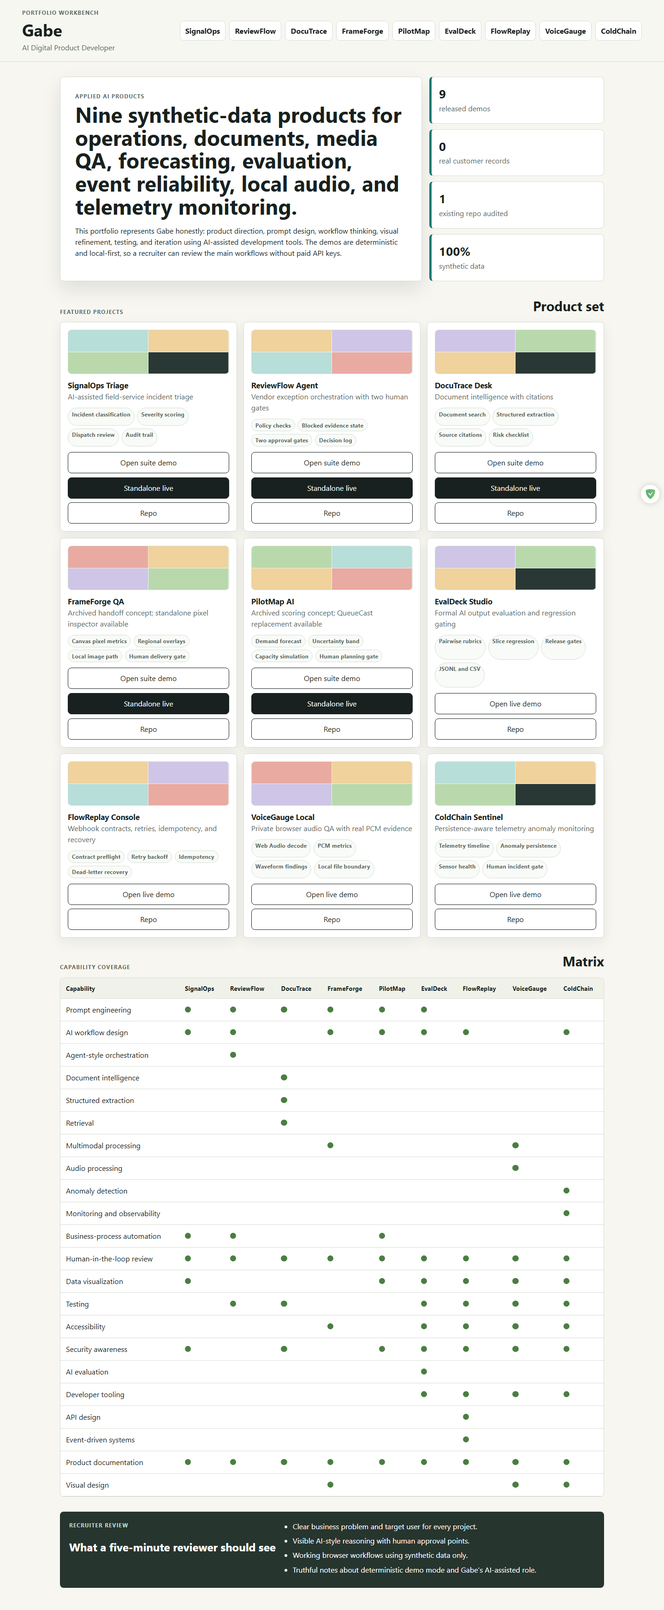
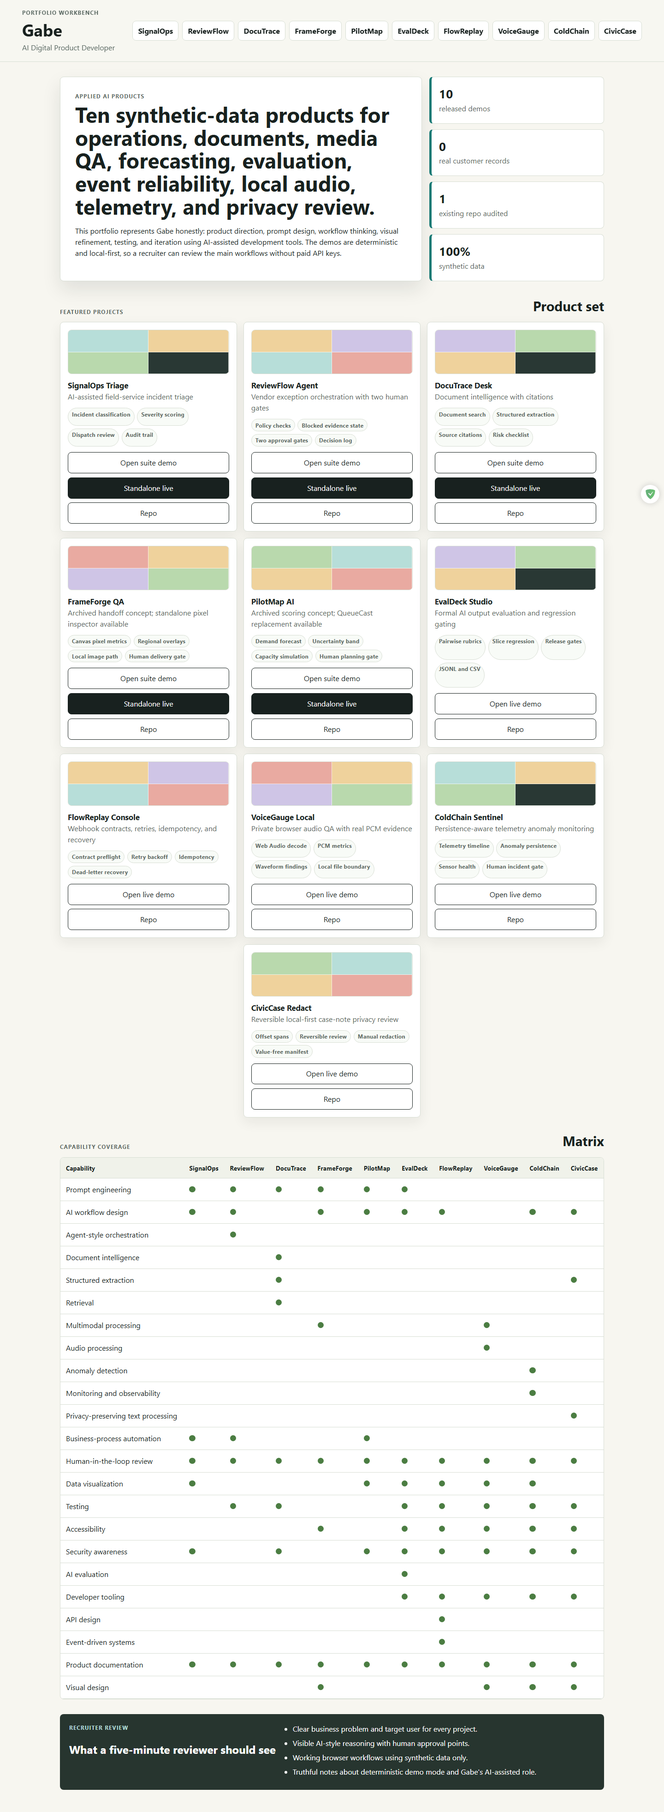
feat: complete ten-product portfolio

diff --git a/index.html b/index.html
@@ -4,7 +4,7 @@
   <meta charset="utf-8">
   <meta name="viewport" content="width=device-width, initial-scale=1">
   <title>Gabe - AI Digital Product Developer</title>
-  <meta name="description" content="Nine truthful AI-assisted digital product demos spanning operations, documents, media, forecasting, evaluation, event reliability, audio QA, and telemetry monitoring.">
+  <meta name="description" content="Ten truthful AI-assisted digital product demos spanning operations, documents, media, forecasting, evaluation, event reliability, audio, telemetry, and privacy review.">
   <link rel="stylesheet" href="assets/styles.css">
 </head>
 <body data-page="portfolio">
@@ -25,6 +25,7 @@
       <a href="https://jubjub-cpu.github.io/flowreplay-console/">FlowReplay</a>
       <a href="https://jubjub-cpu.github.io/voicegauge-local/">VoiceGauge</a>
       <a href="https://jubjub-cpu.github.io/coldchain-sentinel/">ColdChain</a>
+      <a href="https://jubjub-cpu.github.io/civiccase-redact/">CivicCase</a>
     </nav>
   </header>
 
@@ -32,14 +33,14 @@
     <section class="intro-grid" aria-labelledby="portfolio-title">
       <div class="intro-copy">
         <p class="eyebrow">Applied AI products</p>
-        <h2 id="portfolio-title">Nine synthetic-data products for operations, documents, media QA, forecasting, evaluation, event reliability, local audio, and telemetry monitoring.</h2>
+        <h2 id="portfolio-title">Ten synthetic-data products for operations, documents, media QA, forecasting, evaluation, event reliability, local audio, telemetry, and privacy review.</h2>
         <p>
           This portfolio represents Gabe honestly: product direction, prompt design, workflow thinking, visual refinement, testing, and iteration using AI-assisted development tools.
           The demos are deterministic and local-first, so a recruiter can review the main workflows without paid API keys.
         </p>
       </div>
       <div class="audit-strip" aria-label="Portfolio audit summary">
-        <div><strong>9</strong><span>released demos</span></div>
+        <div><strong>10</strong><span>released demos</span></div>
         <div><strong>0</strong><span>real customer records</span></div>
         <div><strong>1</strong><span>existing repo audited</span></div>
         <div><strong>100%</strong><span>synthetic data</span></div>

diff --git a/assets/portfolio.js b/assets/portfolio.js
@@ -12,6 +12,7 @@
     "Audio processing",
     "Anomaly detection",
     "Monitoring and observability",
+    "Privacy-preserving text processing",
     "Business-process automation",
     "Human-in-the-loop review",
     "Data visualization",
@@ -170,6 +171,22 @@
       oversight: "No shipment is disposed automatically; a human operator must provide written evidence before acknowledgement or escalation.",
       features: ["Telemetry timeline", "Anomaly persistence", "Sensor health", "Human incident gate"],
       capabilities: ["AI workflow design", "Anomaly detection", "Monitoring and observability", "Human-in-the-loop review", "Data visualization", "Testing", "Accessibility", "Security awareness", "Developer tooling", "Product documentation", "Visual design"]
+    },
+    civiccase: {
+      name: "CivicCase Redact",
+      shortName: "CivicCase",
+      subtitle: "Reversible local-first case-note privacy review",
+      path: "https://jubjub-cpu.github.io/civiccase-redact/",
+      pathLabel: "Open live demo",
+      standaloneRepo: "https://github.com/jubjub-cpu/civiccase-redact",
+      standaloneRelease: "https://github.com/jubjub-cpu/civiccase-redact/releases/tag/v1.0.0",
+      accent: "green",
+      problem: "Case-note reviewers need to find direct identifiers, resolve false positives, add missed sensitive spans, and prove human review before a protected copy is released.",
+      user: "Public-service operations teams, privacy reviewers, records teams, and trust-focused product teams",
+      ai: "Maps seven identifier categories to exact offsets, expands repeated-name context, exposes confidence and provenance, and creates a value-free release manifest.",
+      oversight: "Every suggested span must be marked redact or keep, and a written human release decision is required before export.",
+      features: ["Offset spans", "Reversible review", "Manual redaction", "Value-free manifest"],
+      capabilities: ["AI workflow design", "Structured extraction", "Privacy-preserving text processing", "Human-in-the-loop review", "Testing", "Accessibility", "Security awareness", "Developer tooling", "Product documentation", "Visual design"]
     }
   };
 

diff --git a/assets/styles.css b/assets/styles.css
@@ -223,6 +223,10 @@ textarea {
   gap: 0.85rem;
 }
 
+.project-card:last-child:nth-child(3n + 1) {
+  grid-column: 2;
+}
+
 .project-card,
 .workflow-card,
 .doc-card,
@@ -568,6 +572,10 @@ th {
 @media (max-width: 1040px) {
   .project-grid {
     grid-template-columns: repeat(2, minmax(220px, 1fr));
+  }
+
+  .project-card:last-child:nth-child(3n + 1) {
+    grid-column: auto;
   }
 
   .product-layout,

diff --git a/README.md b/README.md
@@ -1,6 +1,6 @@
 # Gabe - AI Digital Product Developer Portfolio
 
-This portfolio features nine complete, local-first AI digital products that show practical workflow design, prompt-shaped reasoning, formal evaluation, event reliability, real browser media processing, telemetry monitoring, human review, synthetic data, and recruiter-friendly product documentation.
+This portfolio features ten complete, local-first AI digital products: five matured foundation products and five distinct Phase Two releases. Together they show workflow design, prompt-shaped reasoning, formal evaluation, event reliability, real browser media processing, telemetry monitoring, privacy-preserving text processing, human review, synthetic data, and recruiter-friendly product documentation.
 
 ## Overview
 
@@ -21,6 +21,7 @@ The portfolio does not claim traditional software engineering employment, produc
 | FlowReplay Console | Integration teams need to distinguish contract drift, transient failures, duplicates, and dead-letter recovery before replaying webhooks. | Versioned contracts, response classification, retry backoff, failure injection, idempotent no-ops, reasoned replay approval, JSON evidence. | [Standalone](https://jubjub-cpu.github.io/flowreplay-console/) |
 | VoiceGauge Local | Audio teams need a private first pass for clipping, level, silence, and background signal. | Real Web Audio decoding, six PCM metrics, timed Canvas findings, baseline comparison, local upload, threshold policy, human handoff gate. | [Standalone](https://jubjub-cpu.github.io/voicegauge-local/) |
 | ColdChain Sentinel | Cold-chain operators need to distinguish persistent excursions from noisy spikes and unhealthy sensor evidence. | Multivariate telemetry, persistence, clear hysteresis, spike suppression, sensor-gap detection, policy tuning, and a human incident gate. | [Standalone](https://jubjub-cpu.github.io/coldchain-sentinel/) |
+| CivicCase Redact | Case-note reviewers need reversible direct-identifier review before protected text is released. | Seven identifier types, exact offsets, repeated-name context, reversible decisions, manual redaction, value-free manifest, and a human release gate. | [Standalone](https://jubjub-cpu.github.io/civiccase-redact/) |
 
 ## Business Problem
 
@@ -28,7 +29,7 @@ Many businesses are interested in AI but struggle to translate messy workflows i
 
 ## Target Users
 
-The products are designed for operations coordinators, field-service teams, small business owners, administrative teams, analysts, creators, and hiring managers reviewing practical AI product potential.
+The products are designed for operations coordinators, AI quality teams, integration developers, document reviewers, workforce planners, creators, media producers, logistics teams, privacy reviewers, and hiring managers reviewing practical AI product potential.
 
 ## Product Approach
 
@@ -36,7 +37,7 @@ Each demo uses deterministic browser logic to simulate AI-style workflow support
 
 ## Main Features
 
-- Nine released product demos with synthetic data.
+- Ten released product demos with synthetic data.
 - Central portfolio page with project cards and capability matrix.
 - Human-in-the-loop review points in every product.
 - Recruiter-facing documentation, roadmap, scorecard, state tracking, blocker tracking, and case studies.
@@ -93,6 +94,10 @@ Current screenshots captured from the implemented local app:
 
 ![Standalone ColdChain mobile](docs/screenshots/coldchain-standalone-mobile.png)
 
+![Standalone CivicCase desktop](docs/screenshots/civiccase-standalone-desktop.png)
+
+![Standalone CivicCase mobile](docs/screenshots/civiccase-standalone-mobile.png)
+
 ![Mobile portfolio](docs/screenshots/portfolio-mobile.png)
 
 ## Live Demo
@@ -111,7 +116,7 @@ GitHub profile:
 
 Release:
 
-[v1.0.0 - Published AI product portfolio](https://github.com/jubjub-cpu/gabe-ai-product-portfolio/releases/tag/v1.0.0)
+[v2.0.0 - Complete ten-product AI portfolio](https://github.com/jubjub-cpu/gabe-ai-product-portfolio/releases/tag/v2.0.0)
 
 Standalone SignalOps:
 
@@ -167,6 +172,12 @@ Standalone ColdChain Sentinel:
 - [Repository](https://github.com/jubjub-cpu/coldchain-sentinel)
 - [v1.0.0 release](https://github.com/jubjub-cpu/coldchain-sentinel/releases/tag/v1.0.0)
 
+Standalone CivicCase Redact:
+
+- [Live demo](https://jubjub-cpu.github.io/civiccase-redact/)
+- [Repository](https://github.com/jubjub-cpu/civiccase-redact)
+- [v1.0.0 release](https://github.com/jubjub-cpu/civiccase-redact/releases/tag/v1.0.0)
+
 Local fallback:
 
 ```text
@@ -186,6 +197,7 @@ The demos show AI product patterns without pretending a paid model is running:
 - API contracts, event retries, idempotency, failure injection, and dead-letter recovery.
 - Web Audio decoding, PCM signal analysis, waveform overlays, and local audio privacy.
 - Multivariate telemetry monitoring, persistence-aware anomaly detection, clear hysteresis, and sensor-health evidence.
+- Offset-preserving direct-identifier detection, reversible privacy review, manual redaction, and value-free release artifacts.
 
 ## Human Oversight
 
@@ -266,12 +278,12 @@ powershell -ExecutionPolicy Bypass -File .\tests\portfolio-validation.ps1
 Latest local validation:
 
 - `PORTFOLIO VALIDATION PASSED`
-- Browser smoke test: all five suite workflows plus the EvalDeck, FlowReplay, VoiceGauge, and ColdChain integrations rendered.
+- Browser smoke test: all five suite workflows plus the EvalDeck, FlowReplay, VoiceGauge, ColdChain, and CivicCase integrations rendered.
 - Interaction test: SignalOps approval, ReviewFlow approval, DocuTrace citations, FrameForge revision review, and PilotMap scoring all responded.
-- Mobile check: central portfolio rendered with nine project cards at 390 px width.
+- Mobile check: central portfolio rendered with ten project cards at 390 px width.
 - Browser console errors: none observed.
 
-The repeatable browser integration check verifies the nine-card desktop and mobile layouts plus the standalone foundation, EvalDeck, FlowReplay, VoiceGauge, and ColdChain public links.
+The repeatable browser integration check verifies the ten-card desktop and mobile layouts plus every standalone foundation and Phase Two public link.
 
 ## Deployment
 
@@ -296,7 +308,7 @@ The recruiter-review path does not require a backend or paid API.
 ## Future Improvements
 
 - Add optional bring-your-own-key AI integrations.
-- Build the final selected Phase Two product in `PHASE_TWO_CANDIDATES.md`.
+- Maintain deployed evidence and use the curated six-repository pin recommendation in `docs/PORTFOLIO_STRATEGY.md`.
 - Add live API-backed variants only when privacy, cost, and security boundaries are clear.
 
 ## AI-Assisted Development

diff --git a/docs/FINAL_PORTFOLIO_REPORT.md b/docs/FINAL_PORTFOLIO_REPORT.md
@@ -2,7 +2,7 @@
 
 ## Executive Summary
 
-The five-project foundation is complete and the portfolio has expanded to nine released products with EvalDeck Studio, FlowReplay Console, VoiceGauge Local, and ColdChain Sentinel, the first four Phase Two releases. The published work includes runnable synthetic-data demos, central documentation, a capability matrix, case studies, validation checks, screenshots, closed milestone issues, and versioned GitHub releases.
+The autonomous build is complete: five matured foundation projects and five distinct Phase Two products are released as ten public, runnable products. EvalDeck Studio, FlowReplay Console, VoiceGauge Local, ColdChain Sentinel, and CivicCase Redact close the selected gaps in evaluation, developer infrastructure, audio, monitoring, anomaly detection, and privacy-preserving text review. Every standalone has documentation, validation checks, screenshots, closed delivery issues, and a versioned GitHub release.
 
 ## Gabe's Portfolio Positioning
 
@@ -21,6 +21,7 @@ Gabe is positioned as an AI Digital Product Developer who uses AI-assisted devel
 | FlowReplay Console | [Standalone demo](https://jubjub-cpu.github.io/flowreplay-console/) | Webhook failures need visible contract, retry, duplicate, and recovery evidence. | API product engineers and integration developers | Versioned contract preflight, retry/backoff, failure injection, idempotent no-ops, dead-letter recovery, human replay approval. | Static HTML/CSS/JS and Canvas | Engine, import/export, repository, local browser, and deployed browser checks passed | Standalone v1.0.0 published |
 | VoiceGauge Local | [Standalone demo](https://jubjub-cpu.github.io/voicegauge-local/) | Audio teams need a private first pass for clipping, silence, level, and background signal. | Content QA leads, producers, and creators | Real Web Audio decoding, PCM metrics, waveform findings, threshold policy, baseline comparison, local import, human handoff decision. | Static HTML/CSS/JS, Web Audio, and Canvas | Engine, generated fixtures, import/export, repository, local browser, and deployed browser checks passed | Standalone v1.0.0 published |
 | ColdChain Sentinel | [Standalone demo](https://jubjub-cpu.github.io/coldchain-sentinel/) | Cold-chain teams need to separate persistent excursions from spikes and unhealthy sensor evidence. | Logistics operations and quality leads | Multivariate telemetry, persistence, clear hysteresis, spike suppression, cadence, battery, signal, door evidence, and human disposition. | Static HTML/CSS/JS and Canvas | Engine, 188 readings, export, repository, local browser, and deployed browser checks passed | Standalone v1.0.0 published |
+| CivicCase Redact | [Standalone demo](https://jubjub-cpu.github.io/civiccase-redact/) | Case-note teams need reversible direct-identifier review before protected release. | Privacy reviewers and records teams | Seven identifier types, exact offsets, repeated-name context, reversible decisions, manual redaction, and value-free artifacts. | Static HTML/CSS/JS | Engine, exact fixtures, import/export, repository, local browser, and deployed browser checks passed | Standalone v1.0.0 published |
 
 ## Capability Matrix
 
@@ -39,15 +40,15 @@ The profile README links to the live portfolio and truthfully describes Gabe's A
 1. `gabe-ai-product-portfolio`
 2. `evaldeck-studio`
 3. `flowreplay-console`
-4. `coldchain-sentinel`
-5. `voicegauge-local`
-6. `doctrace-desk`
+4. `civiccase-redact`
+5. `coldchain-sentinel`
+6. `frameforge-inspect`
 
 ## Testing Summary
 
 - `PORTFOLIO VALIDATION PASSED`
 - Browser render checks passed.
-- Interaction checks passed for all five suite workflows plus EvalDeck's regression, FlowReplay's event-recovery, VoiceGauge's local audio, and ColdChain's telemetry incident workflows.
+- Interaction checks passed for all five suite workflows plus EvalDeck's regression, FlowReplay's event recovery, VoiceGauge's local audio, ColdChain's telemetry incidents, and CivicCase's reversible privacy review.
 - Mobile central portfolio check passed at 390 px.
 - No browser console errors observed.
 
@@ -59,7 +60,7 @@ The app is deployed on GitHub Pages:
 
 Release:
 
-[https://github.com/jubjub-cpu/gabe-ai-product-portfolio/releases/tag/v1.0.0](https://github.com/jubjub-cpu/gabe-ai-product-portfolio/releases/tag/v1.0.0)
+[https://github.com/jubjub-cpu/gabe-ai-product-portfolio/releases/tag/v2.0.0](https://github.com/jubjub-cpu/gabe-ai-product-portfolio/releases/tag/v2.0.0)
 
 Standalone SignalOps deployment:
 
@@ -113,20 +114,22 @@ Standalone ColdChain Sentinel deployment: https://jubjub-cpu.github.io/coldchain
 
 Standalone ColdChain Sentinel release: https://github.com/jubjub-cpu/coldchain-sentinel/releases/tag/v1.0.0
 
+Standalone CivicCase Redact deployment: https://jubjub-cpu.github.io/civiccase-redact/
+
+Standalone CivicCase Redact release: https://github.com/jubjub-cpu/civiccase-redact/releases/tag/v1.0.0
+
 ## Privacy and Security Summary
 
 All product data is fictional or synthetic. No real customer records, payment-card records, credentials, private communications, employee data, or production logs are included. The validation script scans for common secret patterns.
 
 ## Remaining Manual Actions
 
-- Pin `gabe-ai-product-portfolio` on the GitHub profile manually. The available GitHub GraphQL schema did not expose a repository-pinning mutation in this environment.
 - Apply the six-repository recommendation in `docs/PORTFOLIO_STRATEGY.md` manually; repository pinning is not exposed by the available API.
-- Build the final selected Phase Two product in `PHASE_TWO_CANDIDATES.md`.
 
-## Next Projects
+## Historical Planning
 
-See `NEXT_5_PROJECTS.md`.
+`NEXT_5_PROJECTS.md` preserves the original ideation record. `PHASE_TWO_CANDIDATES.md` is the authoritative scored selection and shows all five chosen products complete at v1.0.0.
 
 ## Suggested Next Career Step
 
-Use the central portfolio plus EvalDeck, FlowReplay, ColdChain, VoiceGauge, and DocuTrace to apply for AI product, evaluation, developer tooling, monitoring, media intelligence, workflow automation, and document intelligence roles while completing Phase Two.
+Use the central portfolio plus the curated pins to apply for AI product, evaluation, developer tooling, privacy, monitoring, media intelligence, workflow automation, and document intelligence roles. The ten-product build no longer depends on a future project to substantiate its positioning.

diff --git a/PROJECT_NOVELTY_MATRIX.md b/PROJECT_NOVELTY_MATRIX.md
@@ -17,6 +17,7 @@ This matrix compares the completed foundation, released Phase Two products, and 
 | FlowReplay Console, standalone | Webhook failures hide contract, retry, and duplicate-side-effect risk | Developer infrastructure | API product engineer and integration developer | Inspect event, validate contract, inject failure, model retries, approve replay, review audit | Synthetic event JSON, versioned contracts, endpoints, attempts, and idempotency keys | Contract preflight, response classification, retry/backoff simulation, idempotency, replay planning | Attempt evidence, terminal outcome, HTTP preview, replay event, JSON report | Event rail, Canvas timeline, evidence tabs, replay builder, contract registry | Modular local-first static app | GitHub Pages | Recovery reason and explicit replay approval | Engine, import/export, Canvas, local and deployed browser checks | API design and event-driven developer tooling |
 | VoiceGauge Local, standalone | Audio defects need a private first pass before handoff | Media operations | Content QA lead, producer, and creator | Decode source, inspect metrics and waveform, compare baseline, tune policy, decide handoff | Generated WAV fixtures or local browser-supported audio | Real local PCM analysis with deterministic quality findings | Six metrics, timed overlays, baseline deltas, human decision, JSON report | Audio library, native player, Canvas waveform, policy controls, comparison table | Modular local-first static app with Web Audio | GitHub Pages | Written evidence for accepted findings and explicit re-record action | Engine, fixture, Web Audio, import/export, Canvas, local and deployed browser checks | Audio processing and privacy-first multimodal work |
 | ColdChain Sentinel, standalone | Noisy telemetry can create false alarms while unhealthy sensors weaken incident evidence | Cold-chain logistics | Operations lead, logistics coordinator, and quality reviewer | Select synthetic load, inspect multivariate timeline, tune rule contract, review raw ledger, decide disposition | Deterministic temperature, humidity, battery, signal, door, cadence, and route-stage telemetry | Persistence-aware anomaly detection, clear hysteresis, spike suppression, and sensor-health checks | Correlated alerts, visible suppressions, policy evidence, human disposition, JSON incident | Fleet rail, Canvas timeline, metric strip, rule controls, reading ledger, incident gate | Modular local-first static app with deterministic time-series generation | GitHub Pages | Written evidence required for acknowledgement or escalation | Engine, scenario, Canvas, export, privacy, local and deployed browser checks | Monitoring, anomaly logic, data quality, and operational incident design |
+| CivicCase Redact, standalone | Privacy review needs reversible span decisions and release evidence, not only automatic masking | Public services and records operations | Privacy reviewer, records team, and trust-focused product lead | Inspect source and protected preview, review each span, tune rules, add manual span, record release | Fictional case-note text or locally selected TXT/Markdown | Offset-preserving direct-identifier rules, repeated-name context, confidence evidence, and protected transformation | Masked preview, reversible manifest, human release, protected text, value-free JSON | Case rail, split text editor, span queue, rule controls, manual form, release gate | Modular local-first static app with deterministic text processing | GitHub Pages | Every suggestion reviewed and written release evidence required | Engine, exact counts, import/export, privacy, local and deployed browser checks | Privacy engineering, text algorithms, reversible review, and responsible release design |
 
 ## Closest-Project Checks
 

diff --git a/PORTFOLIO_ROADMAP.md b/PORTFOLIO_ROADMAP.md
@@ -2,7 +2,7 @@
 
 | Order | Project | Category | Business Problem | Target User | Status | Repository | Demo | Current Milestone | Main Blocker | Next Action |
 | --- | --- | --- | --- | --- | --- | --- | --- | --- | --- | --- |
-| 1 | SignalOps Triage | AI operations intelligence | Inconsistent incident notes slow equipment dispatch decisions. | Operations coordinators | Complete | [Standalone repo](https://github.com/jubjub-cpu/signalops-triage) | [Standalone demo](https://jubjub-cpu.github.io/signalops-triage/) | v1.0.0 | None | Use as the strongest pinned project |
+| 1 | SignalOps Triage | AI operations intelligence | Inconsistent incident notes slow equipment dispatch decisions. | Operations coordinators | Complete | [Standalone repo](https://github.com/jubjub-cpu/signalops-triage) | [Standalone demo](https://jubjub-cpu.github.io/signalops-triage/) | v1.0.0 | None | Feature and maintain |
 | 2 | ReviewFlow Agent | AI workflow automation | Vendor exceptions need visible policy checks and separate approval for decisions and outbound responses. | Procurement operations managers | Standalone complete | [Standalone repository](https://github.com/jubjub-cpu/reviewflow-agent) | [Standalone demo](https://jubjub-cpu.github.io/reviewflow-agent/) | v1.0.0 | None | Feature and maintain |
 | 3 | DocuTrace Desk | Document intelligence | Reviewers need evidence-backed answers from business documents. | Procurement and operations reviewers | Standalone complete | [Standalone repository](https://github.com/jubjub-cpu/doctrace-desk) | [Standalone demo](https://jubjub-cpu.github.io/doctrace-desk/) | v1.0.0 | None | Feature and maintain |
 | 4 | FrameForge Inspect | Browser image inspection | Creative teams need a repeatable first pass for still-image delivery defects. | Content QA leads and creators | Standalone complete | [Standalone repository](https://github.com/jubjub-cpu/frameforge-inspect) | [Standalone demo](https://jubjub-cpu.github.io/frameforge-inspect/) | v1.0.0 | None | Feature and maintain; keep embedded FrameForge QA as archive |
@@ -11,6 +11,7 @@
 | 7 | FlowReplay Console | Developer infrastructure | Webhook failures need contract, retry, idempotency, and replay evidence. | API product engineers and integration developers | Standalone complete | [Standalone repository](https://github.com/jubjub-cpu/flowreplay-console) | [Standalone demo](https://jubjub-cpu.github.io/flowreplay-console/) | v1.0.0 | None | Feature and maintain |
 | 8 | VoiceGauge Local | Audio intelligence | Audio teams need local signal evidence before handoff. | Content QA leads, producers, and creators | Standalone complete | [Standalone repository](https://github.com/jubjub-cpu/voicegauge-local) | [Standalone demo](https://jubjub-cpu.github.io/voicegauge-local/) | v1.0.0 | None | Feature and maintain |
 | 9 | ColdChain Sentinel | Telemetry monitoring | Cold-chain teams need persistent anomaly and sensor-health evidence before incident disposition. | Logistics operations and quality leads | Standalone complete | [Standalone repository](https://github.com/jubjub-cpu/coldchain-sentinel) | [Standalone demo](https://jubjub-cpu.github.io/coldchain-sentinel/) | v1.0.0 | None | Feature and maintain |
+| 10 | CivicCase Redact | Privacy-preserving text processing | Case-note teams need reversible direct-identifier review before protected release. | Privacy reviewers and records teams | Standalone complete | [Standalone repository](https://github.com/jubjub-cpu/civiccase-redact) | [Standalone demo](https://jubjub-cpu.github.io/civiccase-redact/) | v1.0.0 | None | Feature and maintain |
 
 ## Inventory Classification
 

diff --git a/PORTFOLIO_CAPABILITY_LEDGER.md b/PORTFOLIO_CAPABILITY_LEDGER.md
@@ -18,6 +18,7 @@ Status key: **Strong** = implemented and directly testable; **Partial** = visibl
 | Forecasting | Missing | Missing | Missing | Missing | Strong | Strong |
 | Anomaly detection | Partial | Missing | Missing | Missing | Missing | Strong via ColdChain |
 | Monitoring and observability | Partial | Missing | Partial | Missing | Partial | Strong via ColdChain |
+| Privacy-preserving text processing | Partial | Partial | Partial | Missing | Missing | Strong via CivicCase |
 | Data visualization | Strong | Partial | Partial | Partial | Strong | Strong |
 | Local-first processing | Strong | Strong | Strong | Strong | Strong | Strong |
 | Browser-based processing | Strong | Strong | Strong | Strong | Strong | Strong |
@@ -40,7 +41,7 @@ Status key: **Strong** = implemented and directly testable; **Partial** = visibl
 | FrameForge Inspect | Rebuilt substantially | Standalone v1.0.0 with actual Canvas pixel metrics, generated PNG fixtures, regional overlays, local file processing, comparison, human decision, export, and deployed tests |
 | QueueCast Planner | Replaced PilotMap | Standalone v1.0.0 with trend forecasting, residual uncertainty, five scenario assumptions, weekly capacity risk, Canvas visualization, human adoption, export, and deployed tests |
 
-The remaining Phase Two release must add privacy-preserving text processing and reversible redaction review; evaluation, developer tooling, API/event systems, audio, anomaly detection, and monitoring gaps are now covered.
+Phase Two is complete. Evaluation, developer tooling, API/event systems, audio, anomaly detection, monitoring, and privacy-preserving text processing all have strong released evidence.
 
 ## Phase Two Evidence
 
@@ -50,3 +51,4 @@ The remaining Phase Two release must add privacy-preserving text processing and 
 | FlowReplay Console | Versioned webhook contracts, response classification, retries and backoff, deterministic failure injection, idempotency, dead-letter recovery, replay audit, local JSON artifacts | Standalone v1.0.0 with engine, repository, local browser, deployed browser, Canvas, privacy, accessibility, screenshot, issue, and release evidence |
 | VoiceGauge Local | Real Web Audio decoding, generated WAV fixtures, PCM peak/RMS/clipping/silence/quiet-floor/pause metrics, Canvas overlays, baseline comparison, local import, human delivery gate | Standalone v1.0.0 with audio engine, fixture generation, repository, local browser, deployed browser, content-type, privacy, accessibility, screenshot, issue, and release evidence |
 | ColdChain Sentinel | Deterministic multivariate telemetry, persistence-aware excursions, clear hysteresis, visible spike suppression, cadence gaps, battery/signal/door evidence, Canvas timeline, policy tuning, human incident gate | Standalone v1.0.0 with engine, 188 readings, repository, local browser, deployed browser, export, privacy, accessibility, screenshot, issue, and release evidence |
+| CivicCase Redact | Offset-preserving direct-identifier rules, repeated-name context, reversible keep/redact decisions, manual exact-phrase spans, local import, protected preview, source fingerprint, value-free manifest, human release gate | Standalone v1.0.0 with engine, exact fixture counts, repository, local browser, deployed browser, JSON/text export, privacy, accessibility, screenshot, issue, and release evidence |

diff --git a/PHASE_TWO_CANDIDATES.md b/PHASE_TWO_CANDIDATES.md
@@ -8,7 +8,7 @@ Scoring dimensions are business clarity, novelty versus the foundation, missing-
 | FlowReplay Console | Developer infrastructure | Webhook events and API schemas | Event timeline and contract console | API design, replay, idempotency, failure injection | 5 | 5 | 5 | 4 | 5 | 5 | 29 | Complete: v1.0.0 |
 | VoiceGauge Local | Customer-support QA | Local audio waveform | Waveform timeline | Audio processing, privacy, silence and clipping analysis | 5 | 5 | 5 | 4 | 5 | 5 | 29 | Complete: v1.0.0 |
 | ColdChain Sentinel | Logistics | Sensor telemetry | Monitoring board and route view | Multivariate anomaly detection and incident evidence | 5 | 5 | 4 | 5 | 5 | 5 | 29 | Complete: v1.0.0 |
-| CivicCase Redact | Public services | Case-note text spans | Split editor and review queue | Local-first privacy, PII rules, reversible review | 5 | 4 | 5 | 5 | 5 | 5 | 29 | Select 5 |
+| CivicCase Redact | Public services | Case-note text spans | Split editor and review queue | Local-first privacy, PII rules, reversible review | 5 | 4 | 5 | 5 | 5 | 5 | 29 | Complete: v1.0.0 |
 | GrantGuard Evidence | Nonprofit compliance | Grant documents | Evidence checklist | Compliance extraction and citations | 4 | 2 | 2 | 5 | 4 | 5 | 22 | Reject: close to DocuTrace |
 | ShiftPilot Forecast | Retail staffing | Sales time series | Scenario planner | Forecasting and staffing | 5 | 1 | 1 | 5 | 4 | 4 | 20 | Reject: duplicates QueueCast |
 | CreativeCaption Bench | Marketing | Images and captions | Media review grid | Caption drafting and visual checks | 4 | 2 | 2 | 4 | 4 | 4 | 20 | Reject: overlaps FrameForge |
@@ -30,5 +30,5 @@ Scoring dimensions are business clarity, novelty versus the foundation, missing-
 - Industries: AI quality engineering, developer infrastructure, customer support, logistics, and public services.
 - Interfaces: evaluation table/diff, event console, waveform timeline, monitoring board/route view, and split redaction editor.
 - Data: JSONL text pairs, event JSON, audio samples, multivariate telemetry, and case-note spans.
-- Remaining selected gap: local-first privacy-preserving text processing and reversible redaction review.
+- Selected gaps closed: formal evaluation, developer tooling, API/event reliability, audio processing, anomaly monitoring, and local-first privacy-preserving text review all have released evidence.
 - Closest-project rule: every selected product owns a different user, workflow, data type, interface, and primary technical claim.

diff --git a/PORTFOLIO_STATE.md b/PORTFOLIO_STATE.md
@@ -2,15 +2,15 @@
 
 | Field | Current value |
 | --- | --- |
-| Current phase | Phase Two: net-new expansion wave |
+| Current phase | Portfolio complete: final curation and maintenance |
 | Current expansion wave | Five selected products after twelve-candidate scoring |
-| Current project | CivicCase Redact |
-| Current repository | Central: `jubjub-cpu/gabe-ai-product-portfolio`; next planned: `jubjub-cpu/civiccase-redact` |
+| Current project | Final portfolio curation |
+| Current repository | Central: `jubjub-cpu/gabe-ai-product-portfolio`; all ten product repositories published |
 | Current branch | `main` |
-| Current issue | CivicCase kickoff issue is the next GitHub milestone |
-| Last completed action | Released ColdChain Sentinel with 188 synthetic telemetry readings, persistence and hysteresis, spike suppression, sensor-health alerts, a human gate, deployed tests, and issues 1-3 closed |
-| Tests last run | ColdChain standalone local and deployed checks passed; central nine-card validation, desktop/mobile browser, overflow, console, request, screenshot, and privacy checks passed locally |
+| Current issue | None; all Phase One and Phase Two delivery issues are closed |
+| Last completed action | Released CivicCase Redact with seven identifier types, exact offsets, reversible review, manual redaction, value-free exports, deployed tests, and issues 1-3 closed |
+| Tests last run | CivicCase standalone local and deployed checks passed; central ten-card validation, desktop/mobile browser, overflow, console, request, screenshot, and privacy checks passed locally |
 | Active failures | None |
 | Active blocker | Optional GitHub Actions workflow cannot be added with the current token because it lacks workflow scope; checked-in local and deployed validation remains available |
-| Uncommitted changes | None after the ColdChain integration checkpoint is committed |
-| Exact next action | Publish and verify the ColdChain integration, then create `jubjub-cpu/civiccase-redact` and its kickoff issue |
+| Uncommitted changes | None after the final CivicCase integration checkpoint is committed |
+| Exact next action | Publish and verify the ten-product central portfolio and profile, then maintain evidence and apply the manual pin recommendation |

diff --git a/docs/PORTFOLIO_STRATEGY.md b/docs/PORTFOLIO_STRATEGY.md
@@ -14,7 +14,7 @@ The completed five-product foundation covers the requested categories:
 4. Multimodal or creative media product: FrameForge QA.
 5. AI opportunity and workflow design: PilotMap AI.
 
-Phase Two expands the foundation with distinct standalone products. EvalDeck Studio adds formal AI-output evaluation and release gates. FlowReplay Console adds API design, event retries, and idempotency. VoiceGauge Local adds real browser audio decoding, PCM analysis, visual signal evidence, and a strict local-file privacy boundary. ColdChain Sentinel adds multivariate telemetry, persistence-aware anomaly detection, clear hysteresis, and sensor-health monitoring.
+Phase Two completes the portfolio with five distinct standalone products. EvalDeck Studio adds formal AI-output evaluation and release gates. FlowReplay Console adds API design, event retries, and idempotency. VoiceGauge Local adds real browser audio decoding, PCM analysis, visual signal evidence, and a strict local-file privacy boundary. ColdChain Sentinel adds multivariate telemetry, persistence-aware anomaly detection, clear hysteresis, and sensor-health monitoring. CivicCase Redact adds offset-preserving privacy review, reversible decisions, manual redaction, and value-free release artifacts.
 
 ## Why Static First
 
@@ -29,11 +29,13 @@ A static browser suite avoids unnecessary setup friction, keeps the main workflo
 
 ## Pinning Recommendation
 
-When repositories are available, pin:
+Pin these six repositories manually:
 
 1. `gabe-ai-product-portfolio`
 2. `evaldeck-studio`
 3. `flowreplay-console`
-4. `coldchain-sentinel`
-5. `voicegauge-local`
-6. `doctrace-desk`
+4. `civiccase-redact`
+5. `coldchain-sentinel`
+6. `frameforge-inspect`
+
+This six-repository set maximizes visible breadth across portfolio narrative, AI evaluation, developer infrastructure, privacy-preserving text, monitoring/time series, and browser media processing. Pinning remains a manual GitHub profile action because the available API does not expose repository pin mutations.

diff --git a/docs/GITHUB_PROFILE_README.md b/docs/GITHUB_PROFILE_README.md
@@ -26,6 +26,8 @@ My current focus is AI-assisted development, prompt engineering, workflow design
 - **VoiceGauge Repository:** https://github.com/jubjub-cpu/voicegauge-local
 - **Standalone ColdChain:** https://jubjub-cpu.github.io/coldchain-sentinel/
 - **ColdChain Repository:** https://github.com/jubjub-cpu/coldchain-sentinel
+- **Standalone CivicCase:** https://jubjub-cpu.github.io/civiccase-redact/
+- **CivicCase Repository:** https://github.com/jubjub-cpu/civiccase-redact
 
 | Project | What It Demonstrates |
 | --- | --- |
@@ -38,6 +40,7 @@ My current focus is AI-assisted development, prompt engineering, workflow design
 | FlowReplay Console | Webhook reliability tooling with versioned contracts, retry/backoff simulation, failure injection, idempotent no-ops, dead-letter recovery, and a human replay gate. |
 | VoiceGauge Local | Privacy-first Web Audio QA with generated WAV fixtures, six real PCM metrics, waveform findings, baseline comparison, local import, and a human handoff gate. |
 | ColdChain Sentinel | Synthetic multivariate telemetry monitoring with persistence, clear hysteresis, spike suppression, sensor-health findings, a Canvas timeline, and a human incident gate. |
+| CivicCase Redact | Local-first case-note privacy review with seven identifier types, exact offsets, reversible span decisions, manual redaction, value-free exports, and a human release gate. |
 
 ## AI Patterns
 
@@ -56,6 +59,7 @@ My current focus is AI-assisted development, prompt engineering, workflow design
 - API contracts, event-driven retries, idempotency, and dead-letter recovery
 - Web Audio, local PCM analysis, waveform visualization, and privacy-first media processing
 - Multivariate telemetry, persistence-aware anomaly detection, clear hysteresis, and sensor-health monitoring
+- Offset-preserving identifier spans, reversible privacy review, manual redaction, and value-free release artifacts
 
 ## Current Learning Focus
 
